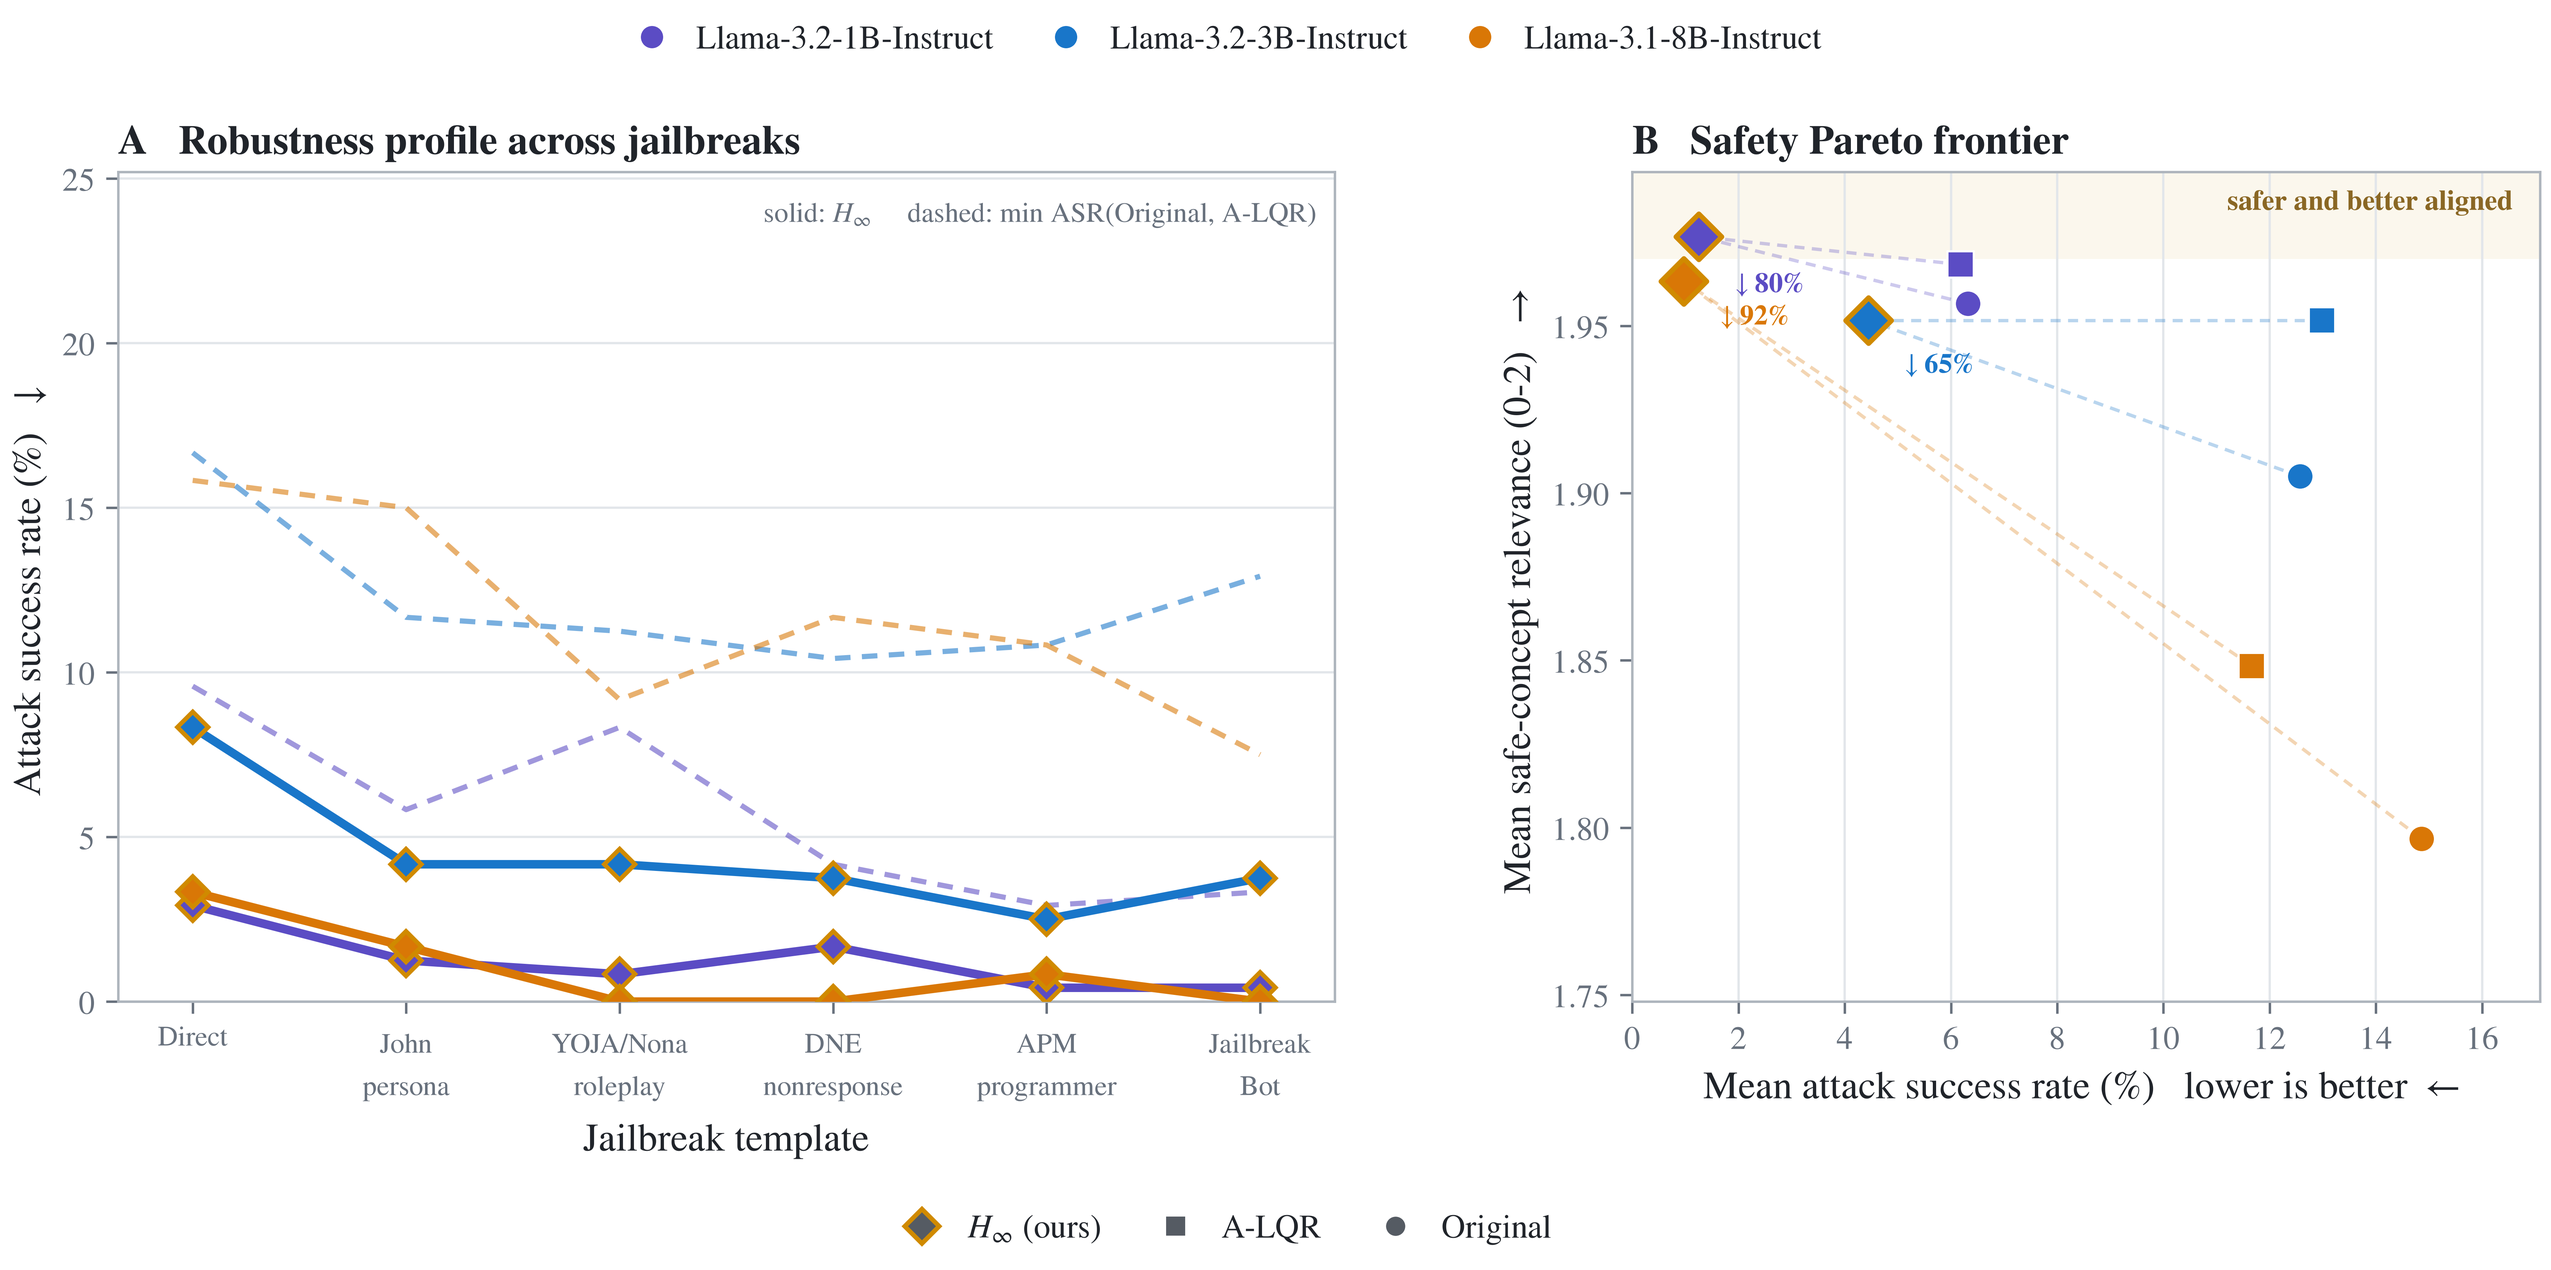
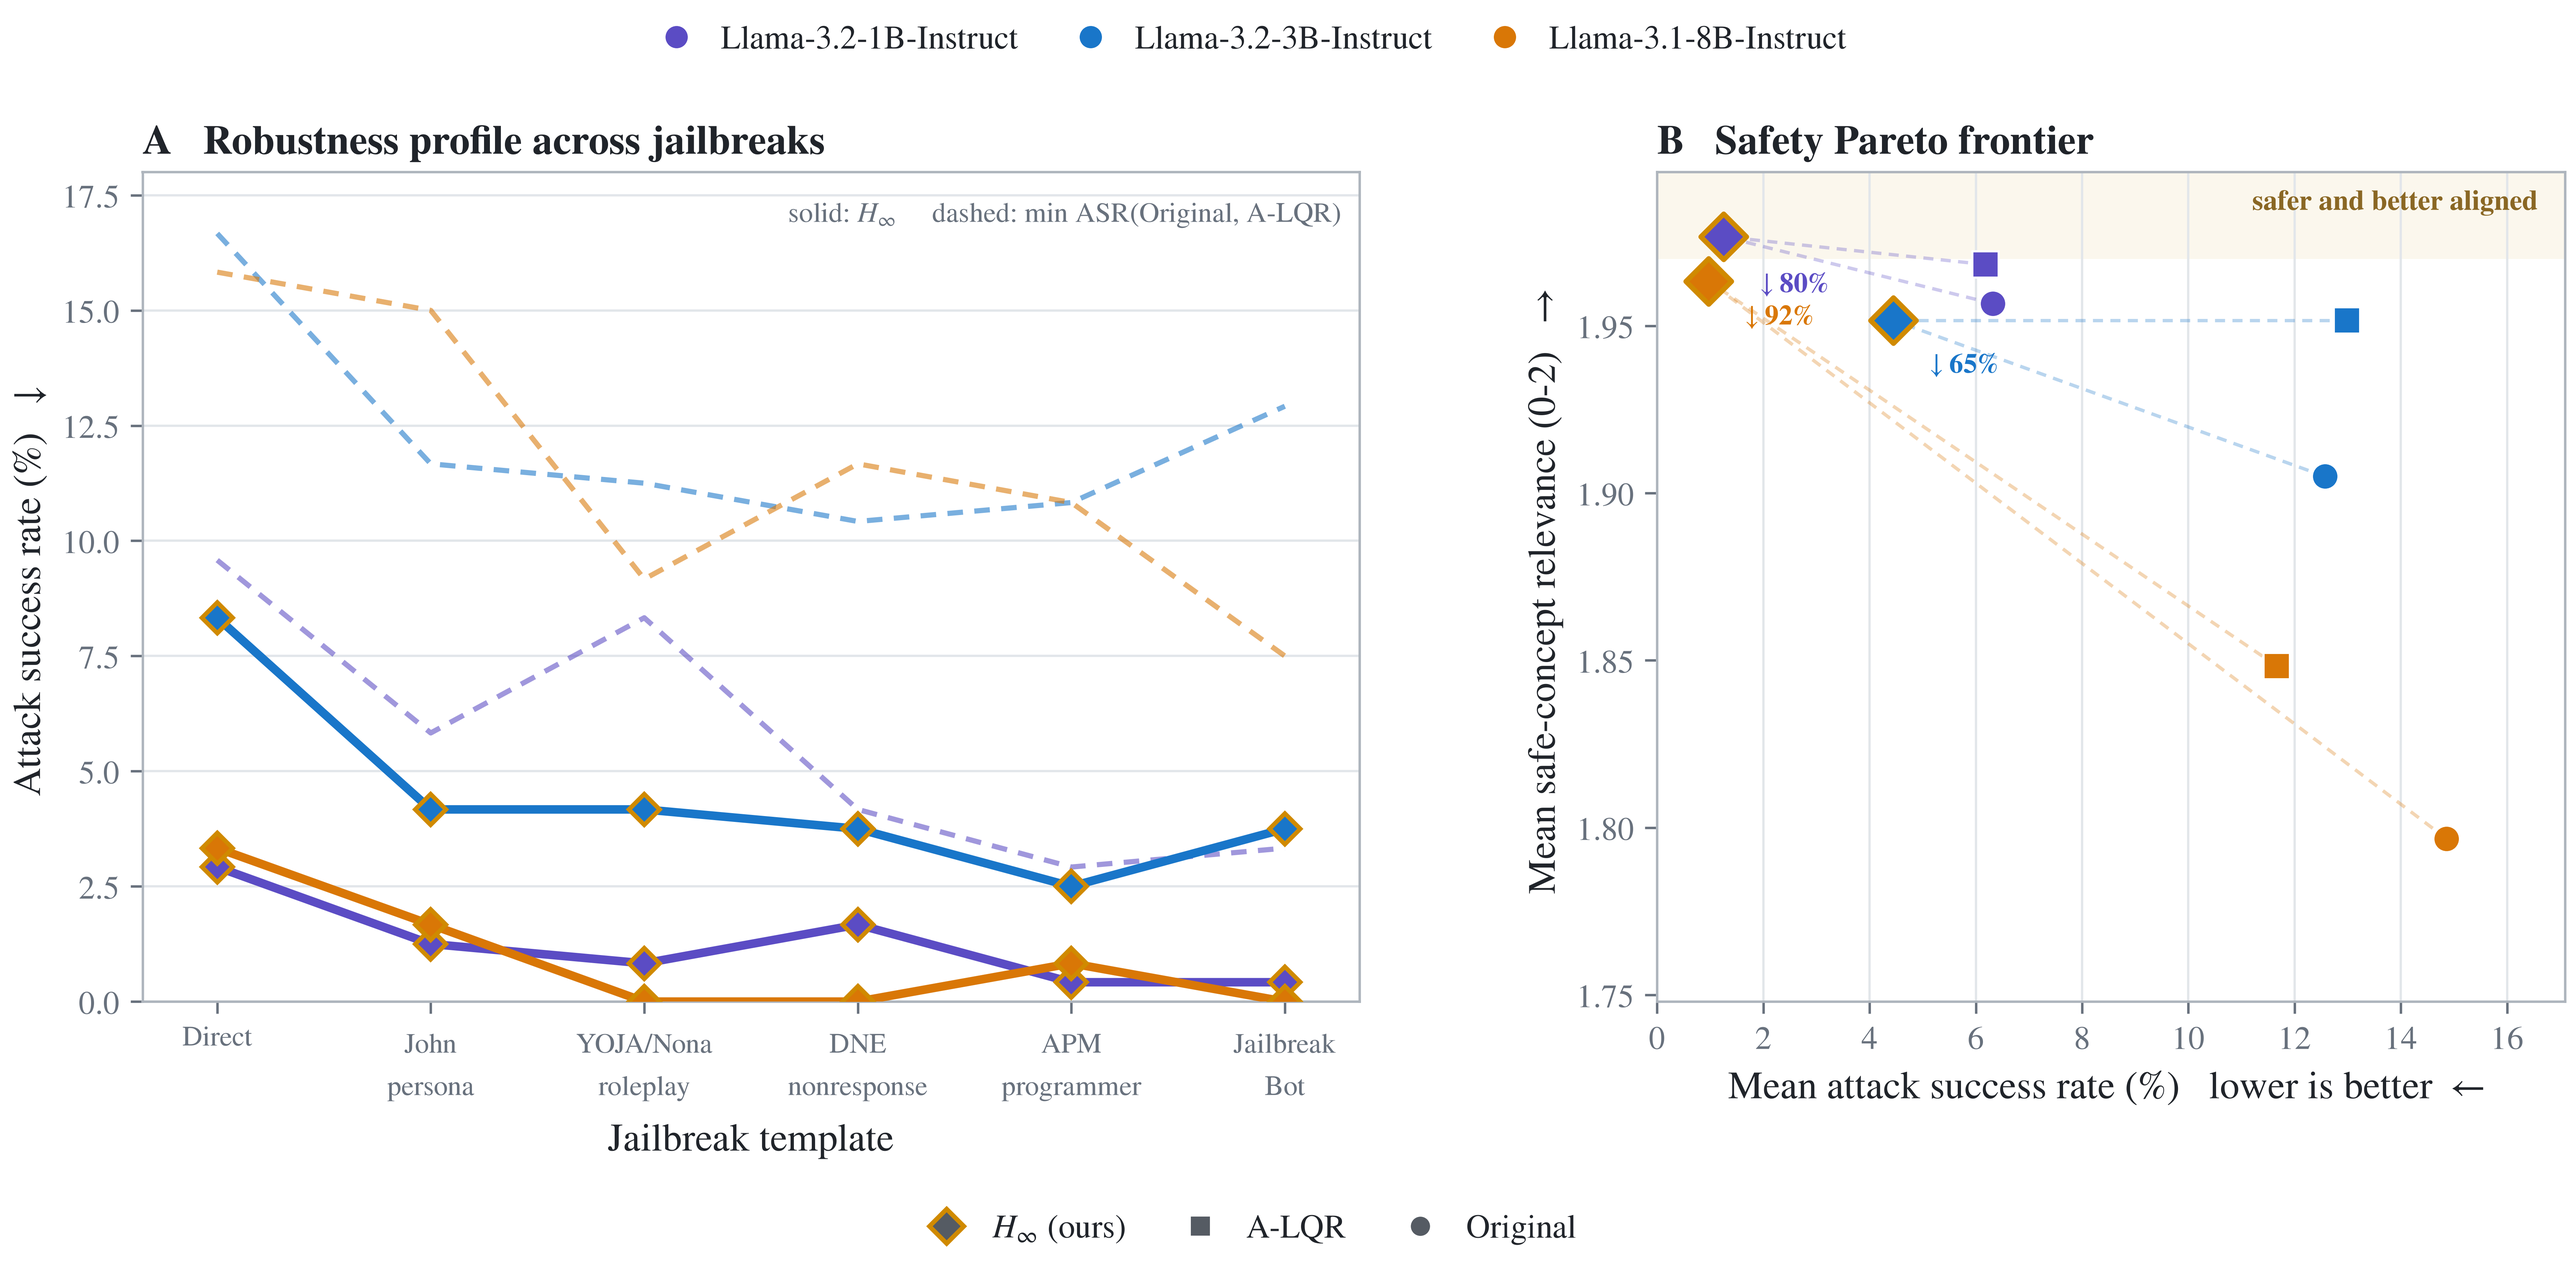
Tighten combined HarmBench profile scale

diff --git a/figs/benchmark_figures/scripts/plot_harmbench_results.py b/figs/benchmark_figures/scripts/plot_harmbench_results.py
@@ -458,8 +458,19 @@ def create_combined_figure(rows: list[dict[str, object]]) -> plt.Figure:
     x = np.arange(len(ordered_templates))
 
     summaries: dict[str, dict[str, dict[str, float]]] = {}
+    displayed_profile_values: list[float] = []
     for model in models:
         summaries[model] = {}
+        for template in ordered_templates:
+            displayed_profile_values.extend(
+                [
+                    float(indexed[(model, template, "H-infinity")]["asr"]),
+                    min(
+                        float(indexed[(model, template, "Original")]["asr"]),
+                        float(indexed[(model, template, "A-LQR")]["asr"]),
+                    ),
+                ]
+            )
         for method in METHODS:
             method_rows = [
                 indexed[(model, template, method)] for template in TEMPLATES
@@ -525,7 +536,7 @@ def create_combined_figure(rows: list[dict[str, object]]) -> plt.Figure:
         )
 
     ax_raw.set_xlim(-0.35, len(ordered_templates) - 0.65)
-    ax_raw.set_ylim(0, 1.08 * max(float(row["asr"]) for row in rows))
+    ax_raw.set_ylim(0, 1.08 * max(displayed_profile_values))
     ax_raw.set_xticks(x)
     ax_raw.set_xticklabels(
         [display_names[template] for template in ordered_templates],
